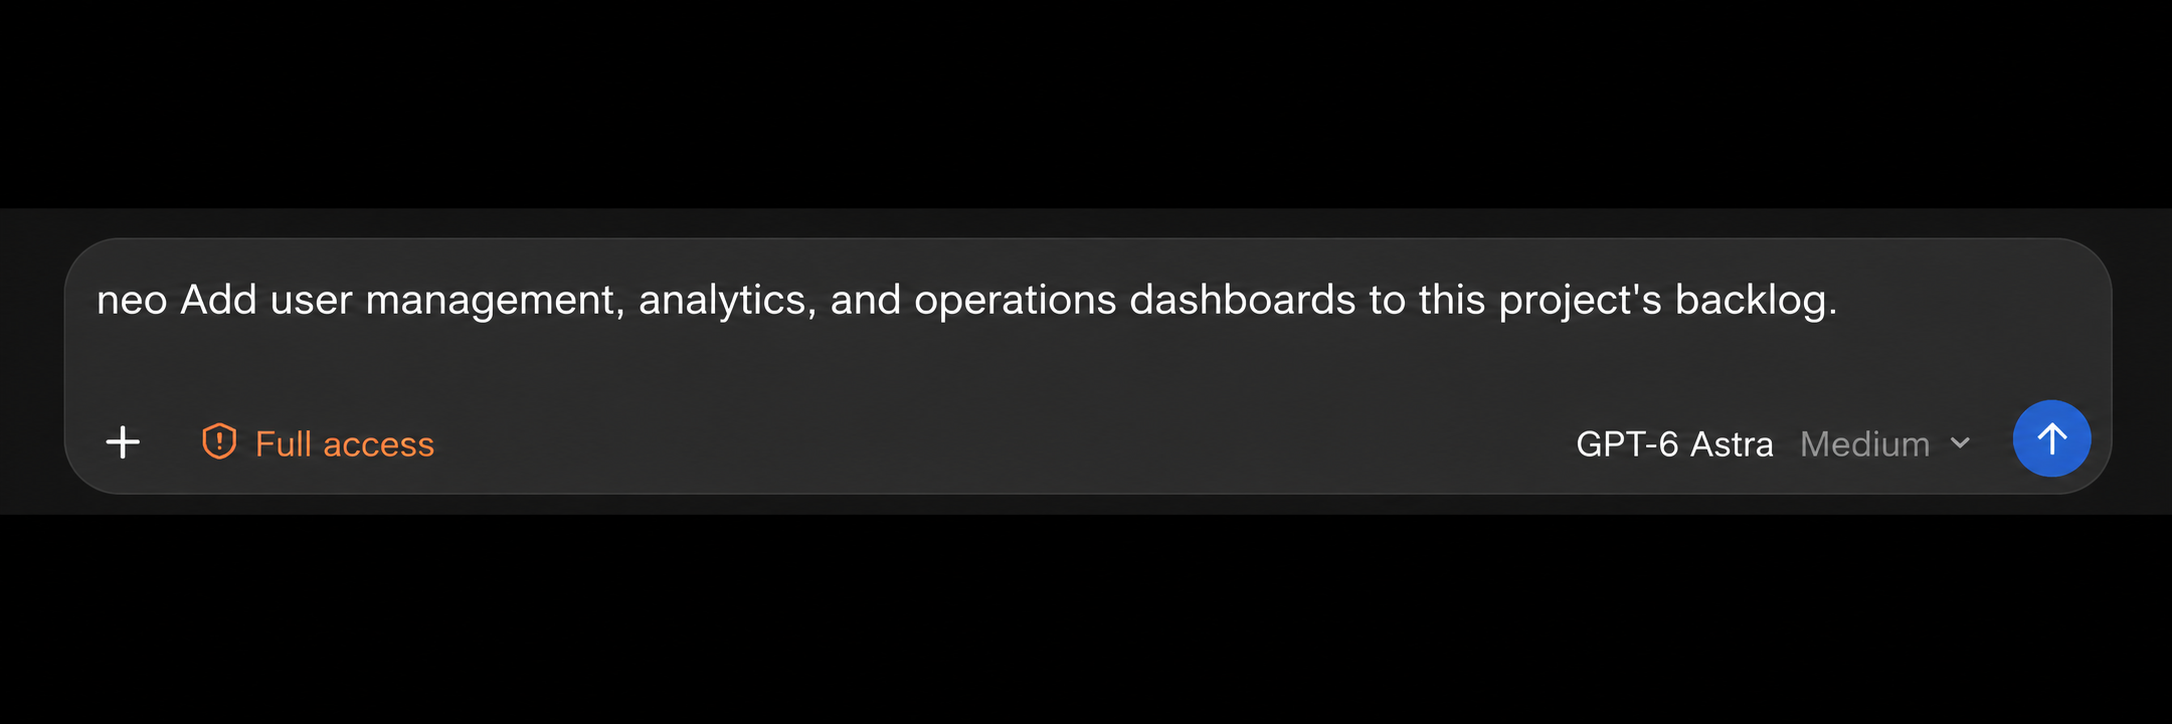
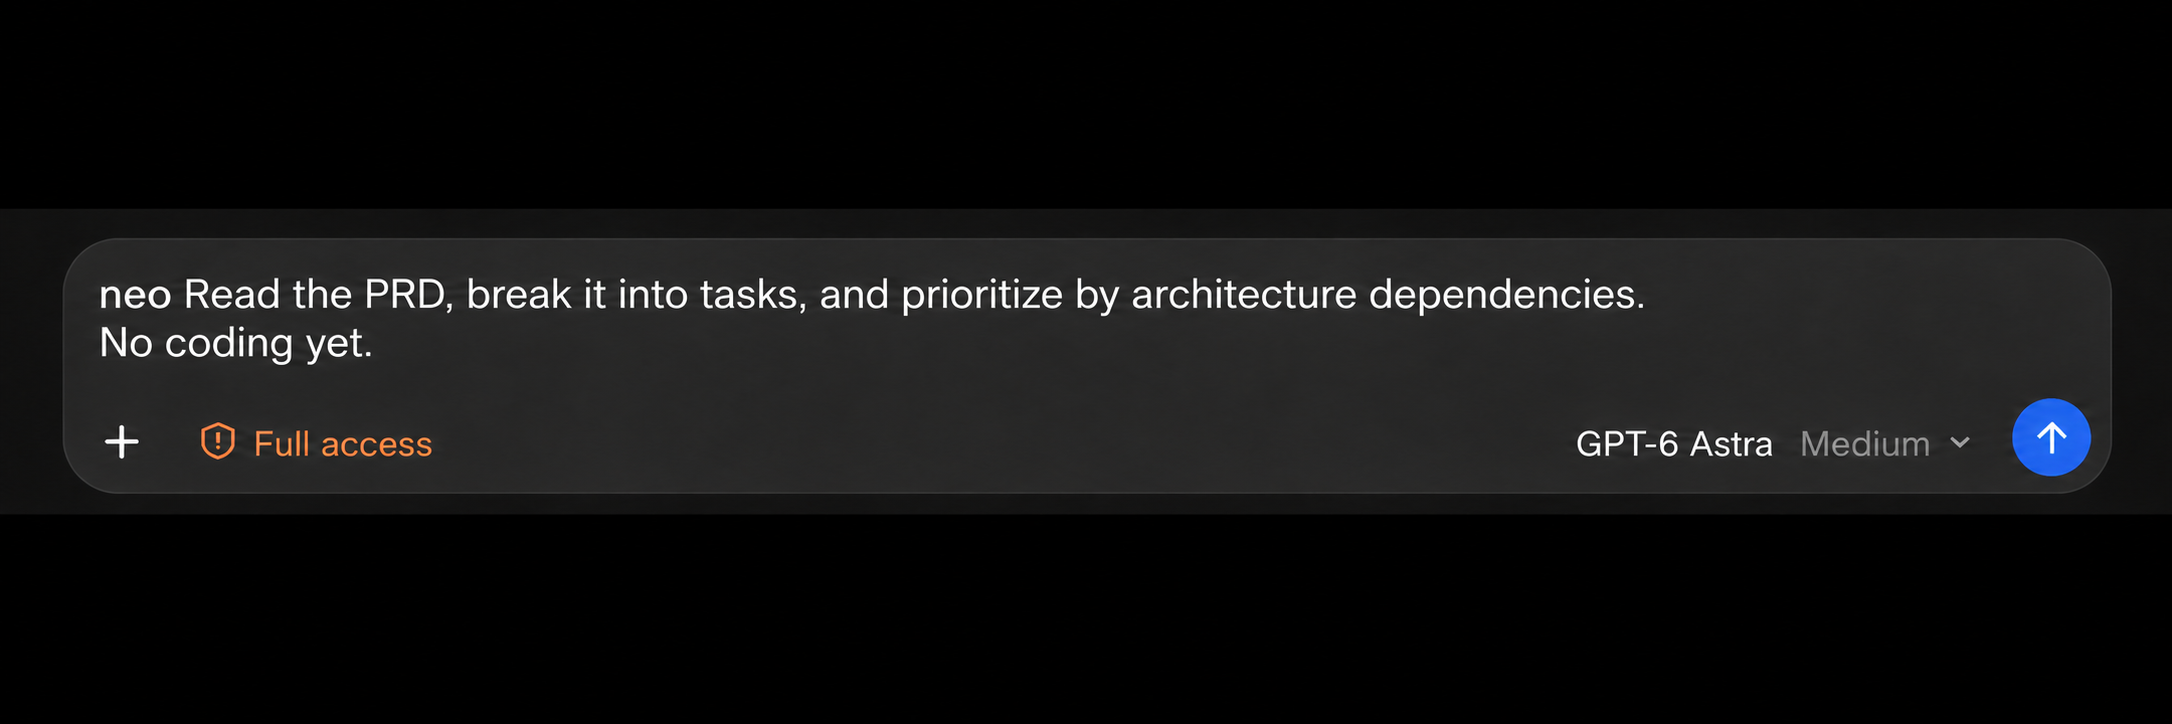
Focus README neo examples on vibe coding workflows

diff --git a/docs/readme/README.ko.md b/docs/readme/README.ko.md
@@ -28,20 +28,22 @@ AI와 코드를 작성하는 속도에 작업 관리가 늘 따라오는 것은 
 
 **설정 → Codex 연동**의 안내로 `next-one` Skill을 설치하거나 업데이트하고, 로컬 Coding Agent가 이를 찾을 수 있게 해 주세요. 그런 다음 `neo` 뒤에 기록하거나 변경할 내용을 입력하세요.
 
-<img src="../assets/neo-examples/ko.png" alt="neo 이 프로젝트의 향후 할 일에 사용자 관리, 통계 대시보드, 운영 대시보드를 추가해 줘" width="960">
+<img src="../assets/neo-examples/ko.png" alt="neo 요구사항 문서를 읽고 아키텍처 의존 관계에 따라 할 일을 나누고 우선순위를 정해 줘. 아직 코드는 작성하지 마" width="960">
 
 *Coding Agent 입력창을 참고한 예시 이미지입니다. 아직 보내지 않은 입력이며 실행 성공의 증거가 아닙니다. 모델과 권한 표시는 참고 화면을 재현한 것으로, Next One의 필수 사용 조건이 아닙니다.*
 
-> neo 이 프로젝트의 향후 할 일에 사용자 관리, 통계 대시보드, 운영 대시보드를 추가해 줘
+> neo 요구사항 문서를 읽고 아키텍처 의존 관계에 따라 할 일을 나누고 우선순위를 정해 줘. 아직 코드는 작성하지 마
 
-| 입력 예시 | 작업 |
-| --- | --- |
-| `neo 내일 아침 8시에 택배를 보내야 해` | 개인 할 일과 마감 시간 추가 |
-| `neo 오늘 마감인 미완료 할 일을 보여 줘` | 오늘 마감인 할 일 조회 |
-| `neo 택배 보내기를 내일 오후 3시로 바꿔 줘` | 해당 할 일의 마감 시간 변경 |
-| `neo 택배 보내기 완료했어` | 해당 할 일을 완료로 표시 |
+| 막히는 순간 | Agent에게 요청하기 | Next One에 남는 내용 |
+| --- | --- | --- |
+| 긴 요구사항에서 어디부터 시작할지 모르겠을 때 | `neo docs/PRD.md를 현재 프로젝트의 할 일과 하위 작업으로 나누고 각각의 완료 기준을 적어 줘. 아직 코드는 작성하지 마` | 요구사항을 다시 옮겨 적지 않아도 실행 가능한 목록 |
+| 코드는 빨리 늘지만 작업 순서가 꼬일 때 | `neo 기존 아키텍처에 맞춰 데이터 모델과 API, 화면 연동 순으로 할 일을 정리해 줘. 우선순위와 의존 관계, 이유도 메모해 줘` | 작업 순서와 우선순위, 판단 근거 |
+| 제품 아이디어를 잊고 싶지 않지만 개발은 계속해야 할 때 | `neo 첫 방문 사용자에게 샘플 프로젝트를 제공하는 아이디어를 기록해 줘. 낮은 우선순위와 검증 필요로 표시하고 아직 구현하지 마` | 확정 요구사항과 구분되는 아이디어 |
+| 상사가 데모 직전에 추가 작업을 요청할 때 | `neo 상사가 이번 금요일 데모 전에 데이터 내보내기와 권한 안내를 요청했어. 높은 우선순위 작업 두 개로 나누고 기존 할 일은 유지해 줘` | 추가 요청, 기한과 우선순위, 유지되는 기존 계획 |
+| 새 대화에서 진행 상황을 다시 설명해야 할 때 | `neo 검증한 작업만 완료로 표시해 줘. 실패한 테스트, 막힌 부분, 다음 시작 지점을 해당 작업에 기록해 줘` | 다음 세션으로 이어지는 실제 진행 상황과 남은 확인 |
+| 내일 데모까지 무엇이 남았는지 알아야 할 때 | `neo 할 일과 완료 기준 검증 기록을 보고 내일 데모까지 남은 작업을 영향도순으로 정리해 줘. 근거가 없는 작업은 완료로 보지 마` | 실제 기록을 바탕으로 확인한 누락 사항 |
 
-`neo`는 Agent가 Next One을 선택하도록 돕고, 뒤의 자연어가 작업을 결정합니다. 위 프로젝트 예시는 향후 작업을 기록하며 즉시 개발을 시작하지 않습니다. 개인적인 일은 미분류에, 프로젝트 작업은 명확한 프로젝트 맥락에 기록합니다. 날짜는 사용자 시간대를 따릅니다. 동명 작업처럼 대상이 모호하면 먼저 확인하고, CLI가 성공한 뒤에만 완료를 알립니다. 마감 시간은 알림 예약이 아닙니다.
+요구사항을 할 일로 바꾸고, 추가 요청과 아이디어를 놓치지 않으며, 다음 대화에 진행 상황을 남깁니다. Agent가 지정한 문서와 접근 가능한 프로젝트 맥락을 읽고 작업 분해 및 아키텍처 판단을 할 일, 하위 작업, 우선순위와 메모에 기록합니다. 의존 관계는 메모이며 자동 일정 계산 기능이 아닙니다. 문서나 대상이 불분명하면 먼저 확인하고, 저장 성공 후에 결과를 알립니다.
 
 Skill 호출 규칙이며 셸 명령이나 백그라운드 감시 기능이 아닙니다. 기본 설치 안내는 Codex용입니다. 검색 여부는 Agent와 설치된 Skill 버전에 따라 달라지며, 새 세션의 자동 선택은 아직 검증하지 않았습니다.
 

diff --git a/README.md b/README.md
@@ -28,20 +28,22 @@ It is built for solo developers, indie makers, and anyone who builds software th
 
 Install or update the `next-one` Skill from **Settings → Codex integration**, and make sure your local coding agent can discover it. Then write `neo` followed by what you want to record or change.
 
-<img src="docs/assets/neo-examples/en.png" alt="neo Add user management, analytics, and operations dashboards to this project's backlog." width="960">
+<img src="docs/assets/neo-examples/en.png" alt="neo Read the PRD, break it into tasks, and prioritize by architecture dependencies. No coding yet." width="960">
 
 *Illustrative input example based on a Coding Agent composer. It shows an unsent request, not a successful execution. The model and permission controls reproduce the reference UI; they are not Next One requirements.*
 
-> neo Add user management, analytics, and operations dashboards to this project's backlog.
+> neo Read the PRD, break it into tasks, and prioritize by architecture dependencies. No coding yet.
 
-| You say | Next One workflow |
-| --- | --- |
-| `neo Tomorrow at 8am I need to mail a parcel` | Create a personal task with a due time |
-| `neo Show today's unfinished tasks` | Read today's due tasks |
-| `neo Move mailing the parcel to tomorrow at 3pm` | Find the task and update its due time |
-| `neo I have mailed the parcel` | Find the task and mark it complete |
+| When this happens | Tell your agent | What stays in Next One |
+| --- | --- | --- |
+| A long PRD makes it hard to start | `neo Turn docs/PRD.md into tasks and subtasks for this project, with acceptance criteria for each. No coding yet.` | An actionable backlog without manually copying the requirements |
+| Code moves fast; dependencies get overlooked | `neo Reorder tasks using the existing architecture: data models and APIs before UI integration. Set priorities and note dependencies and reasons.` | Execution order, priorities, and reasoning you can review |
+| A product idea interrupts focused work | `neo Capture an idea: give new users a sample project on first launch. Low priority; mark it for validation. Do not implement it yet.` | An idea saved without treating it as an approved requirement |
+| Your boss adds work before a demo | `neo My boss needs data export and permission guidance before this Friday’s demo. Add two high-priority tasks and keep the existing backlog.` | The request, deadline, and urgency without losing the original plan |
+| A new agent session needs the context again | `neo Mark only verified work complete. Record failing tests, blockers, and where to resume on the relevant tasks.` | A handoff with actual progress and unfinished checks |
+| Tomorrow’s demo is close; what is still missing? | `neo Review the tasks and acceptance notes for tomorrow’s demo. Rank unfinished items by impact; do not count unverified work as done.` | Gaps grounded in the saved work rather than assumed completion |
 
-`neo` helps the agent select Next One; the rest of the sentence determines the operation. The project example records future work rather than immediately implementing it. Personal tasks default to Unfiled; project tasks use an explicit project or clear project context. Dates use your local timezone. Ambiguous task matches are clarified before changes, and writes are reported successful only after the CLI succeeds. Due times do not schedule notifications.
+Turn requirements into a backlog, keep interruptions from getting lost, and leave a usable handoff for the next session. The agent reads the documents you specify and accessible project context, then writes its breakdown and architectural reasoning into tasks, subtasks, priorities, and notes. Dependencies are notes, not an automatic scheduling engine. Missing documents, unclear projects, and ambiguous task matches are clarified before writing; success is reported only after the write succeeds.
 
 This is a Skill convention, not a shell command or background listener. The bundled setup targets Codex; discovery depends on your agent and installed Skill version. Fresh-session automatic routing has not yet been verified.
 

diff --git a/docs/readme/README.zh-CN.md b/docs/readme/README.zh-CN.md
@@ -29,20 +29,22 @@ macOS 14+ · SwiftUI + AppKit · 本地存储 · Codex Skill + CLI
 
 在**设置 → Codex 接入**复制指令，安装或更新 `next-one` Skill，并让本机 Coding Agent 发现它。之后直接输入 `neo`，再说你要记录或调整的事情。
 
-<img src="../assets/neo-examples/zh-CN.png" alt="neo 当前项目后面要加用户管理、统计看板和运维看板功能" width="960">
+<img src="../assets/neo-examples/zh-CN.png" alt="neo 阅读需求文档，按架构依赖拆分待办并安排优先级，先别写代码" width="960">
 
 *Coding Agent 输入框示意，展示尚未发送的指令，不代表执行成功。模型和权限控件按参考界面保留，不是 Next One 的使用要求。*
 
-> neo 当前项目后面要加用户管理、统计看板和运维看板功能
+> neo 阅读需求文档，按架构依赖拆分待办并安排优先级，先别写代码
 
-| 你说 | 对应操作 |
-| --- | --- |
-| `neo 明天早上八点我要出门寄快递` | 新增生活待办并记录截止时间 |
-| `neo 看看今天还有什么没做` | 查询今天到期的未完成事项 |
-| `neo 把寄快递改到明天下午三点` | 找到对应任务并修改截止时间 |
-| `neo 寄快递已经完成了` | 找到对应任务并标记完成 |
+| 场景 | 直接对 Agent 说 | 留在 Next One 里的内容 |
+| --- | --- | --- |
+| 需求很长，不知道从哪下手 | `neo 按 docs/PRD.md 拆出当前项目的开发待办和子任务，每项写清验收条件，先别写代码` | 从需求到可执行清单，不用再手动抄一遍 |
+| Agent 写得快，但开发顺序容易乱 | `neo 结合现有架构重排待办：先数据模型和接口，再页面联调；标好优先级，把依赖和理由写进备注` | 任务顺序、优先级与判断依据，方便随时检查 |
+| 产品想法一闪而过，不想打断当前开发 | `neo 记个产品想法：新用户首次进入时给一份示例项目。放低优先级，备注待验证，暂时不开发` | 想法有地方放，也不会被当成已确认需求 |
+| 老板临时插单，怕遗漏也怕打乱原计划 | `neo 老板要求本周五演示前补上数据导出和权限说明，拆成两条高优先级待办，保留原有任务` | 交办内容、期限和优先级，原计划仍保留 |
+| 准备换会话，不想再解释一遍 | `neo 把这轮已验证的工作标完成，未通过的测试和阻塞写回对应任务，备注下一步从哪里继续` | 实际进度、验证缺口和下一步，供新会话接续 |
+| 演示就在明天，想先知道还差什么 | `neo 根据当前任务和验收记录，列出明天演示前还没完成的事项，按影响排好；缺少证据的不要算完成` | 从真实记录查缺口，减少“代码写完了就算完成”的误判 |
 
-`neo` 帮助 Agent 选择 Next One，后面的自然语言决定具体操作。图中的项目需求会先记录为后续工作，不会直接开始开发。生活事项默认放入未分类；项目事项使用明确项目或当前项目上下文。日期按用户本地时区解析；同名任务不明确时先询问，CLI 写入成功后才报告完成。截止时间不等于定时通知。
+把需求变成清单，把插单和想法留住，把进度交给下一次会话。Agent 读取你指定的文档和可访问的项目上下文，完成拆解与架构判断，再将结果写入 Next One 的任务、子任务、优先级和备注；依赖以备注记录，不是应用内自动调度。找不到文档、归属不清或有同名任务时先澄清，写入成功后才反馈。
 
 这是 Skill 的触发约定，不是终端命令或后台监听。内置安装指令面向 Codex，是否发现 Skill 取决于 Agent 和安装版本；新会话自动路由仍待验证。
 

diff --git a/PROJECT_STATUS.md b/PROJECT_STATUS.md
@@ -7,6 +7,15 @@
 - 证据与限制：[AC01–AC15 验收报告](docs/acceptance/macos-floating-todo.md)
 - 使用方法：[README](README.md)
 
+## 2026-10-26 14:57 | readme-vibe-scenarios | README 聚焦 Vibe Coding 痛点
+
+- 状态：四语文档及配图更新完成，检查通过。
+- 需求与范围：用户要求替换生活化示例，聚焦开发者从需求拆待办、按架构排优先级，以及产品经理记录想法和老板交办事项。
+- 改动：四语 README 改为场景/指令/保存价值三列表，覆盖需求拆分、依赖排序、想法留存、临时插单、会话交接和演示查漏；四张主图同步改为 PRD 任务规划，保留模型与完整底栏。明确架构判断由 Agent 完成，依赖记录在备注，不新增自动调度能力。
+- 验证与证据：四张生成图文字与底栏已逐张检查；四语各六类场景、生活示例移除、图片/文档链接、提示词版本及 git diff --check 均通过。仅文档和素材修改，不运行无关业务测试。
+- 未完成/阻塞/下一步：示例为使用建议，不是六类场景全部端到端验收；未修改 Skill、应用、安装包或真实任务。
+- 关联文档与 Git 状态：[中文 README](docs/readme/README.zh-CN.md)、[英文 README](README.md)、[图片提示词](docs/assets/neo-examples/generation.json)；main，本地提交，不推送。
+
 ## 2026-10-26 14:49 | neo-installer | 包含 neo 的最新本机安装包
 
 - 状态：本机安装包生成并验证完成。

diff --git a/docs/assets/neo-examples/README.md b/docs/assets/neo-examples/README.md
@@ -5,3 +5,4 @@
 - 按用户补充要求完整保留加号、橙色权限图标与文字、GPT-6 Astra 模型名、推理程度、下拉箭头和蓝色发送按钮。模型名称不翻译，输入文字及权限/推理程度按语言本地化。这些控件是参考界面的呈现，不代表 Next One 必须使用该模型或权限设置。
 - 精确提示词见 [generation.json](generation.json)。最终图片逐张检查文字、模型名称及底栏完整性；不使用先前删除底栏信息的草稿。
 - Next One 应用实拍截图继续保存在 [screenshots](../screenshots/README.md)，两类素材分开说明。
+- 第三版按用户反馈改为 Vibe Coding 场景：主图展示读取需求文档、按架构依赖拆任务并安排优先级，明确暂不写代码；四语 README 的文字示例覆盖需求拆分、架构排序、产品想法、老板插单、会话交接及演示缺口检查。完整底栏仍保留。
